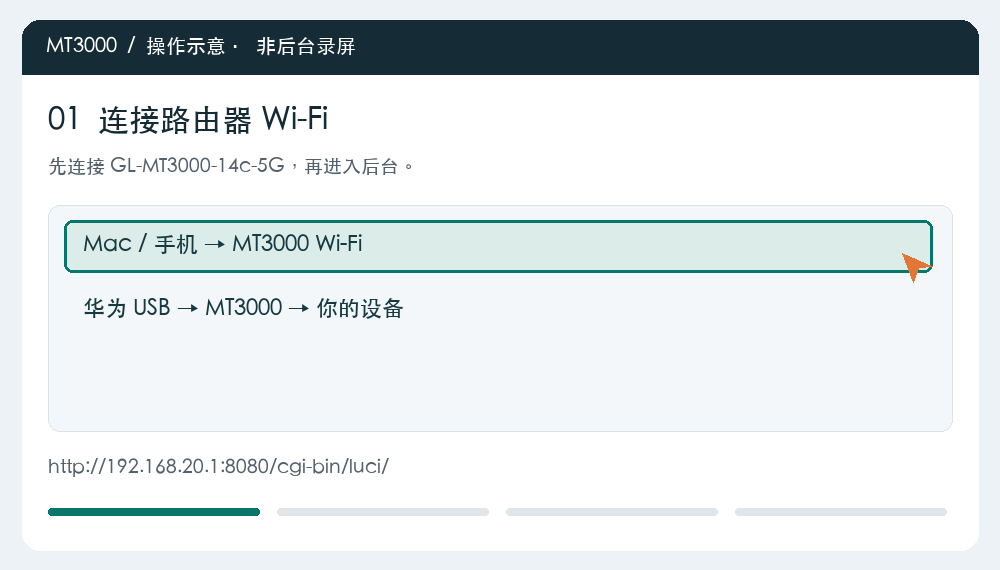
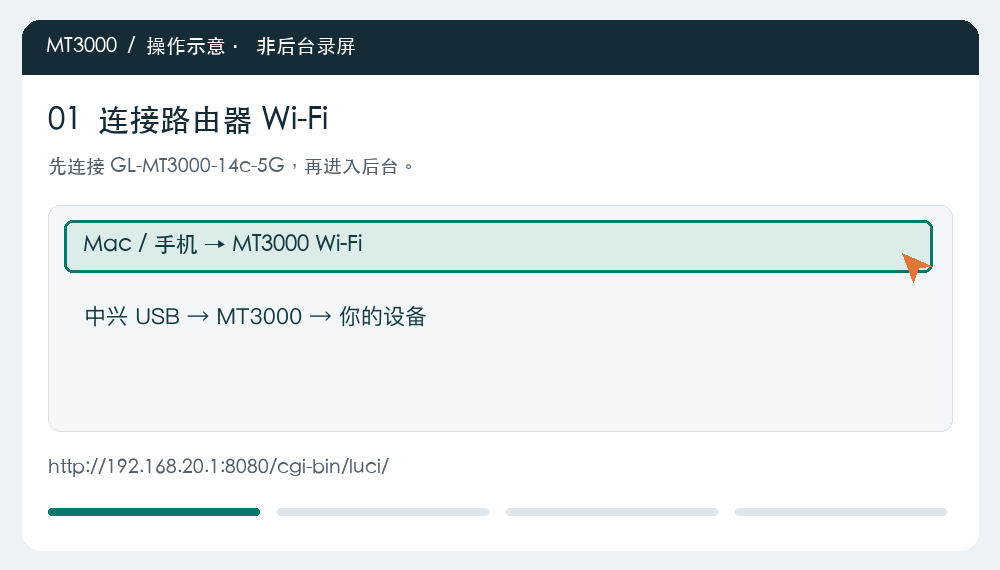
fix

Changed region(s): [[0.062, 0.507, 0.434, 0.5667]]

diff --git a/index.html b/index.html
@@ -1,15 +1,15 @@
 <!doctype html><html lang="zh-CN"><head><meta charset="UTF-8"><meta name="viewport" content="width=device-width,initial-scale=1"><title>MT3000 · 路由器代理使用手册</title><link rel="stylesheet" href="style.css"></head><body>
-<a class="skip" href="#main">跳转到正文</a><aside><a class="brand" href="#top"><span class="brand-icon">M</span><span>MT3000<small>我的路由器使用手册</small></span></a><div class="nav-label">日常操作</div><nav><a href="#entry">01　进入后台与开关代理</a><a href="#nodes">02　更换代理节点</a><a href="#subscription">03　更新或更换订阅</a><a href="#verify">04　确认生效与测速</a><a href="#moving">05　断电、搬家与恢复</a><a href="#faq">06　常见问题</a><a href="#paths">后台路径速查</a></nav><div class="aside-note">适用于当前设备<br>GL-MT3000 · 固件 4.8.1 CN<br>OpenClash 0.47.156<br><span>核对日期：2026-10-03</span></div></aside>
-<main id="main"><header id="top"><div class="eyebrow">PERSONAL FIELD GUIDE / 01</div><h1>让代理留在路由器上。</h1><p class="lead">连接 Wi-Fi，打开后台，选择线路。<br>这份手册帮你独立管理 MT3000 上的 OpenClash。</p><div class="hero-actions"><a class="primary" href="http://192.168.20.1:8080/cgi-bin/luci/admin/services/openclash/client" target="_blank" rel="noreferrer">打开 OpenClash ↗</a><a class="secondary" href="#nodes">我要换节点 →</a></div><div class="topology"><span>华为随身 Wi-Fi<small>192.168.8.1</small></span><b>USB →</b><span>MT3000 / OpenClash<small>192.168.20.1</small></span><b>Wi-Fi →</b><span>Mac / 手机<small>无需各自开启 VPN</small></span></div></header>
+<a class="skip" href="#main">跳转到正文</a><aside><a class="brand" href="#top"><span class="brand-icon">M</span><span>MT3000<small>我的路由器使用手册</small></span></a><div class="nav-label">日常操作</div><nav><a href="#entry">01　进入后台与开关代理</a><a href="#nodes">02　更换代理节点</a><a href="#subscription">03　更新或更换订阅</a><a href="#verify">04　确认生效与测速</a><a href="#moving">05　断电、搬家与恢复</a><a href="#faq">06　常见问题</a><a href="#paths">后台路径速查</a></nav><div class="aside-note">适用于当前设备<br>GL-MT3000 · 固件 4.8.1 CN<br>OpenClash 0.47.156<br><span>网络核对：2026-10-07</span></div></aside>
+<main id="main"><header id="top"><div class="eyebrow">PERSONAL FIELD GUIDE / 01</div><h1>让代理留在路由器上。</h1><p class="lead">连接 Wi-Fi，打开后台，选择线路。<br>这份手册帮你独立管理 MT3000 上的 OpenClash。</p><div class="hero-actions"><a class="primary" href="http://192.168.20.1:8080/cgi-bin/luci/admin/services/openclash/client" target="_blank" rel="noreferrer">打开 OpenClash ↗</a><a class="secondary" href="#nodes">我要换节点 →</a></div><div class="topology"><span>中兴 5G 随身 Wi-Fi<small>192.168.0.1</small></span><b>USB →</b><span>MT3000 / OpenClash<small>192.168.20.1</small></span><b>Wi-Fi →</b><span>Mac / 手机<small>无需各自开启 VPN</small></span></div></header>
 <div class="notice"><strong>先记住这件事</strong><p>这里的“VPN”由 <b>OpenClash</b> 实现。请进入 <b>LuCI → 服务 → OpenClash</b>，不要在 GL.iNet 自带的 WireGuard / OpenVPN 客户端里找这份订阅。本文不包含你的订阅链接、密码或面板密钥。</p></div>
-<section id="entry"><div class="section-no">01 / ACCESS</div><h2>进入后台，开启或关闭代理</h2><p class="intro">先连接 MT3000 的 Wi-Fi。下面的地址是局域网地址，离开这台路由器的网络后通常无法打开。</p><div class="path">LuCI → 服务 → OpenClash → Overviews（概览）</div><ol class="steps"><li><strong>连接 MT3000 Wi-Fi</strong><p>你当前使用的是 <code>GL-MT3000-14c-5G</code>。以后如果改过 Wi-Fi 名称，以新名称为准。</p></li><li><strong>打开 LuCI</strong><p>浏览器输入 <a href="http://192.168.20.1:8080/cgi-bin/luci/" target="_blank">http://192.168.20.1:8080/cgi-bin/luci/</a>。用户名为 <code>root</code>，密码使用你设置的路由器管理员密码；Wi-Fi 密码不一定与它相同。</p></li><li><strong>进入 OpenClash</strong><p>顶部选择「服务 → OpenClash」，打开 <code>Overviews</code>。也可以使用本页上方的快捷按钮直达；登录后若没有跳回，重新打开一次。</p></li><li><strong>操作运行状态右侧开关</strong><p>开启后等待显示 <b>Meta 运行中</b>，并检查下方网站连通性。关闭开关即停止 OpenClash 代理，普通直连上网是否可用取决于华为设备的网络。</p></li><li><strong>日常保持“规则”模式</strong><p>规则模式按配置分流；全局模式通常还需要在面板的 GLOBAL 组选择节点；直连模式不使用代理。仅换节点无需修改增强 / TUN / 混合模式。</p></li></ol>
+<section id="entry"><div class="section-no">01 / ACCESS</div><h2>进入后台，开启或关闭代理</h2><p class="intro">先连接 MT3000 的 Wi-Fi。下面的地址是局域网地址，离开这台路由器的网络后通常无法打开。</p><div class="path">LuCI → 服务 → OpenClash → Overviews（概览）</div><ol class="steps"><li><strong>连接 MT3000 Wi-Fi</strong><p>你当前使用的是 <code>GL-MT3000-14c-5G</code>。以后如果改过 Wi-Fi 名称，以新名称为准。</p></li><li><strong>打开 LuCI</strong><p>浏览器输入 <a href="http://192.168.20.1:8080/cgi-bin/luci/" target="_blank">http://192.168.20.1:8080/cgi-bin/luci/</a>。用户名为 <code>root</code>，密码使用你设置的路由器管理员密码；Wi-Fi 密码不一定与它相同。</p></li><li><strong>进入 OpenClash</strong><p>顶部选择「服务 → OpenClash」，打开 <code>Overviews</code>。也可以使用本页上方的快捷按钮直达；登录后若没有跳回，重新打开一次。</p></li><li><strong>操作运行状态右侧开关</strong><p>开启后等待显示 <b>Meta 运行中</b>，并检查下方网站连通性。关闭开关即停止 OpenClash 代理，普通直连上网是否可用取决于中兴设备的网络。</p></li><li><strong>日常保持“规则”模式</strong><p>规则模式按配置分流；全局模式通常还需要在面板的 GLOBAL 组选择节点；直连模式不使用代理。仅换节点无需修改增强 / TUN / 混合模式。</p></li></ol>
 <div class="demo" data-flow="entry"><div class="demo-head"><span>操作动图 · 后台入口与开关</span><span class="badge">示意动画</span></div><img src="assets/entry-0.png" width="1000" height="570" alt="后台入口与开关的分步操作示意" class="flow-image"><div class="controls"><button class="play">播放动图</button><button class="prev" aria-label="上一步">← 上一步</button><span class="counter" aria-live="polite">1 / 4</span><button class="next" aria-label="下一步">下一步 →</button><a href="assets/entry.gif" download>下载 GIF</a></div><p class="caption">根据当前界面重绘，演示操作顺序；不会控制路由器。真实后台截图见入口与节点章节。</p></div><figure><a href="assets/openclash-real.jpg" target="_blank"><img src="assets/openclash-real.jpg" loading="lazy" alt="真实后台：顶部菜单、运行状态开关和规则模式" width="758" height="988"></a><figcaption>真实后台：顶部菜单、运行状态开关和规则模式 · 点击查看大图</figcaption></figure>
 </section><section id="nodes"><div class="section-no">02 / NODES</div><h2>更换节点：在 Proxy 里选线路</h2><p class="intro">订阅是一整份线路清单，节点是其中一条线路。换节点不用重新导入订阅。</p><div class="path">OpenClash → Overviews → 控制面板 → Metacubexd → 代理 → Proxy</div><ol class="steps"><li><strong>打开 Metacubexd</strong><p>在概览页向下滚动到「控制面板」，点击 <b>Metacubexd</b>。它通常会自动携带连接信息打开新标签页。</p></li><li><strong>点击“代理”，展开 Proxy</strong><p>窄屏窗口中「代理」位于底部导航，宽屏布局可能在侧边。点击 <code>Proxy</code> 组标题展开节点。你当前配置使用这个组；未来换订阅后可能叫“节点选择”等其他名称。</p></li><li><strong>选择具体线路</strong><p>可在「按名称筛选节点」输入“日本”，找到 <code>日本-PRO-FW-JP2-流量倍率:0.2</code>，点击卡片主体。卡片内的延迟数字 / 测试按钮只用于测延迟，不等于选中节点。</p></li><li><strong>检查选中状态</strong><p>确认节点卡片高亮，且 Proxy 的当前选择变成该名称。通常立即生效，不用重启整个路由器。旧连接可能继续使用原路径，重新打开目标网页后再验证。</p></li><li><strong>想恢复自动选节点，就选 Auto</strong><p>在 Proxy 里选 <code>Auto</code>。核对本教程时，Proxy 选择 Auto，Auto 当前选中香港 HK2-1；这是当时状态，会随自动测试而变化。</p></li></ol><div class="tip"><strong>低延迟 ≠ 高下载速度</strong><p>自动组依据配置中的健康检查选择线路，不等于全面测速。“流量倍率 0.2”通常是服务商计费倍率，不代表限速为 20%；具体以服务商说明为准。标注“有效期 / 剩余流量”的条目通常是信息提示，别当作正常线路选择。</p></div>
 <div class="demo" data-flow="nodes"><div class="demo-head"><span>操作动图 · 更换代理节点</span><span class="badge">示意动画</span></div><img src="assets/nodes-0.png" width="1000" height="570" alt="更换代理节点的分步操作示意" class="flow-image"><div class="controls"><button class="play">播放动图</button><button class="prev" aria-label="上一步">← 上一步</button><span class="counter" aria-live="polite">1 / 4</span><button class="next" aria-label="下一步">下一步 →</button><a href="assets/nodes.gif" download>下载 GIF</a></div><p class="caption">根据当前界面重绘，演示操作顺序；不会控制路由器。真实后台截图见入口与节点章节。</p></div><div class="image-grid"><figure><a href="assets/panel-entry-real.jpg" target="_blank"><img src="assets/panel-entry-real.jpg" loading="lazy" alt="真实后台：Metacubexd 的入口" width="758" height="988"></a><figcaption>真实后台：Metacubexd 的入口 · 点击查看大图</figcaption></figure><figure><a href="assets/nodes-real.jpg" target="_blank"><img src="assets/nodes-real.jpg" loading="lazy" alt="真实后台：Proxy 展开后的节点列表" width="758" height="988"></a><figcaption>真实后台：Proxy 展开后的节点列表 · 点击查看大图</figcaption></figure></div>
 </section><section id="subscription"><div class="section-no">03 / SUBSCRIPTIONS</div><h2>更新订阅，或换一家服务商</h2><p class="intro">当前配置名是 <code>myclash.yaml</code>。先分清你要“拉取新节点”，还是“更换订阅地址”。</p><div class="path">OpenClash → Config Subscribe（配置订阅）</div><div class="two-cards"><article><span class="badge">A / 原地址不变</span><h3>只更新节点列表</h3><ol><li>打开 <b>Config Subscribe</b>。</li><li>找到 <b>myclash</b> 那一行。</li><li>点击该行的 <b>更新</b>，等待下载完成。</li><li>回到概览检查配置时间；再到面板检查节点列表。</li></ol><p>无需再次粘贴地址。更新后如果原节点被服务商移除，重新选择可用节点。</p></article><article><span class="badge">B / 替换原地址</span><h3>更换这份订阅</h3><ol><li>在 myclash 那一行点击 <b>编辑</b>。</li><li>用新的 <b>Clash / Mihomo 订阅地址</b> 替换「订阅地址」。</li><li>保留配置文件名，点击 <b>保存配置</b>。</li><li>返回列表，点击该行 <b>更新</b>。</li><li>在概览确认使用 myclash.yaml，检查运行和节点。</li></ol></article></div><div class="tip"><strong>推荐：换服务商时保留一份旧配置</strong><p>点击 <b>新增</b> → 填一个不同文件名（例如 <code>new-provider</code>）→ 粘贴新地址 → 保持“在线订阅转换”关闭 → 保存 → 更新。然后进入 <b>Overviews → 配置文件</b>，选择 <code>new-provider.yaml</code>，点击旁边的 <b>切换</b> 按钮。验证成功后再决定是否保留旧订阅。</p></div>
 <div class="demo" data-flow="sub"><div class="demo-head"><span>操作动图 · 更换订阅</span><span class="badge">示意动画</span></div><img src="assets/sub-0.png" width="1000" height="570" alt="更换订阅的分步操作示意" class="flow-image"><div class="controls"><button class="play">播放动图</button><button class="prev" aria-label="上一步">← 上一步</button><span class="counter" aria-live="polite">1 / 4</span><button class="next" aria-label="下一步">下一步 →</button><a href="assets/sub.gif" download>下载 GIF</a></div><p class="caption">根据当前界面重绘，演示操作顺序；不会控制路由器。真实后台截图见入口与节点章节。</p></div>
 <h3>关于几个容易混淆的按钮</h3><div class="table-wrap"><table><thead><tr><th>按钮 / 入口</th><th>作用</th></tr></thead><tbody><tr><td>保存配置</td><td>保存订阅名称和地址；之后还要更新，才能下载新配置。</td></tr><tr><td>订阅行的“更新”</td><td>从该地址重新获取配置文件。</td></tr><tr><td>概览的配置文件“切换”</td><td>选定当前真正运行的 YAML；新增订阅后尤其要做这一步。</td></tr><tr><td>Config Manage</td><td>管理 / 上传本地 YAML 文件。只有配置文件时使用；不要把网页地址当作配置文件上传。</td></tr><tr><td>在线订阅转换</td><td>可能把订阅交给第三方转换服务。本教程使用兼容订阅直接导入，不需要开启。</td></tr></tbody></table></div><p>若要定期更新，可在 Config Subscribe 勾选「自动更新」，选择页面展开后的更新时间并保存配置。先确认手动更新能成功，再开启定时更新。</p><p class="muted">订阅失败时：检查地址是否完整、套餐是否有效、路由器时间是否正确，以及 Server Logs 中的下载或解析错误。报错日志和截图可能包含订阅密钥，分享前先遮挡。</p>
-</section><section id="verify"><div class="section-no">04 / VERIFY</div><h2>确认流量真的经过路由器</h2><ol class="steps"><li><strong>完全退出 Mac 的 Clash Verge</strong><p>单独关闭系统代理不一定关闭 TUN；测试时完全退出最容易避免混淆。手机也先关闭自己的 VPN，并确认连接 MT3000 Wi-Fi。</p></li><li><strong>查看路由器与客户端两边</strong><p>OpenClash 显示 Meta 运行中；下方「访问检查」选择路由器模式并刷新。再在 Mac 新开网页访问 YouTube，实际播放视频。路由器检查成功不能代替客户端验证。</p></li><li><strong>用相同条件测速</strong><p>尽量固定同一节点、同一测速服务器、同一 Wi-Fi 位置，关闭后台下载，测 2–3 次。蜂窝网络和服务商线路可能短时波动，别只凭一次结果改配置。</p></li></ol><div class="note-strip"><b>我们已观察到</b><p>关闭 Mac VPN 后曾测得 37.5 Mbps 下载、29.8 Mbps 上传；此前也出现过 0.93 Mbps。它们是当时的测试记录，不是性能保证，也不足以证明某个单一故障原因。</p></div></section>
-<section id="moving"><div class="section-no">05 / EVERYDAY</div><h2>断电带到公司，通常无需重配</h2><p>配置保存在路由器中。保持华为设备通过 USB 给 MT3000 提供网络，开机等待华为联网，再连接 MT3000 Wi-Fi 即可。确认 OpenClash 自动恢复运行；若未恢复，再进概览查看开关和日志。</p><ul><li><b>入口保持不变：</b>LAN 仍是 192.168.20.1，后台地址不因地点改变。</li><li><b>上游改变时检查网段：</b>若改接公司有线 / Wi-Fi，且上游也是 192.168.20.x，可能再次出现网段冲突，需要调整 LAN。</li><li><b>升级或恢复出厂前：</b>先备份设置和配置。备份可能包含订阅密钥，应妥善保存。</li></ul></section>
-<section id="faq"><div class="section-no">06 / TROUBLESHOOT</div><h2>遇到问题，从这里查</h2><details><summary>192.168.20.1 或 LuCI 打不开</summary><p>确认连接的是 MT3000 Wi-Fi。LuCI 地址需要带 <b>:8080</b>，使用 <b>http://</b>。如果普通后台能开而 LuCI 不能开，在 GL.iNet「系统 → 高级设置」检查 LuCI 入口。LAN 地址改过后，本文快捷链接也要相应修改。</p></details><details><summary>Metacubexd 无法连接，提示需要密钥</summary><p>先确认 Meta 运行中，再从 OpenClash 的 Metacubexd 按钮重新进入，它会携带连接信息。直接访问 9090 面板可能需要手动填写主机 192.168.20.1、端口 9090，以及 OpenClash「复制密钥」得到的值。不要把这个密钥或含 secret 的链接公开分享。</p></details><details><summary>换节点后好像没变化</summary><p>确认是在规则模式下使用的 Proxy 组选择了节点，而不是只改 GLOBAL 或只点击延迟测试。查看「连接」页里新请求经过的规则和代理链；关闭旧页面，再新开页面测试。某些应用有专用策略组，需要在对应组中选择。</p></details><details><summary>突然变慢，要不要切 TUN 或重置防火墙？</summary><p>先不改底层设置。固定节点和测速服务器复测，检查华为信号和剩余流量，查看 OpenClash 负载与连接。低延迟不代表高带宽。“重置防火墙”和模式变更不应作为日常换节点的步骤。</p></details><details><summary>更新订阅后无法启动</summary><p>打开 Server Logs，检查下载失败、YAML 解析错误或节点不兼容。若保留了旧配置，在 Overviews 选择旧 YAML 并切换。不要急着恢复出厂。</p></details><details><summary>部分网站失败，或者出现 IPv6 提示</summary><p>当前安装时曾提示 IPv6 DHCP 可能影响连接。出现问题时先确认该网站的规则、DNS 和 IPv4 / IPv6 路径，再针对性调整。不要仅凭提示就同时修改 IPv6、DNS 和防火墙，否则难以判断原因。</p></details></section>
-<section id="paths"><div class="section-no">REFERENCE</div><h2>后台路径速查</h2><p>这些链接仅访问你的局域网设备，不包含登录凭据。先连接 MT3000。</p><div id="links"></div><div class="table-wrap"><table><thead><tr><th>英文菜单</th><th>中文含义</th><th>什么时候使用</th></tr></thead><tbody><tr><td>Overviews</td><td>概览</td><td>开关代理、切换配置、打开面板</td></tr><tr><td>Plugin Settings</td><td>插件设置</td><td>模式、DNS、外部控制、版本更新</td></tr><tr><td>Overwrite Settings</td><td>覆写设置</td><td>高级配置，日常换节点无需修改</td></tr><tr><td>Config Subscribe</td><td>配置订阅</td><td>新增、编辑、更新订阅地址</td></tr><tr><td>Config Manage</td><td>配置管理</td><td>上传和管理 YAML 文件</td></tr><tr><td>Server Logs</td><td>运行日志</td><td>检查启动、下载、连接错误</td></tr></tbody></table></div></section><footer>为你的 MT3000 制作 · 可离线阅读 · 动图为操作示意，截图为真实界面<br>界面核对：2026-10-03。后续升级或换订阅后，菜单、策略组与节点名称可能变化。<button onclick="window.print()">打印 / 保存为 PDF</button></footer></main><script src="app.js"></script></body></html>
+</section><section id="verify"><div class="section-no">04 / VERIFY</div><h2>确认流量真的经过路由器</h2><ol class="steps"><li><strong>完全退出 Mac 的 Clash Verge</strong><p>单独关闭系统代理不一定关闭 TUN；测试时完全退出最容易避免混淆。手机也先关闭自己的 VPN，并确认连接 MT3000 Wi-Fi。</p></li><li><strong>查看路由器与客户端两边</strong><p>OpenClash 显示 Meta 运行中；下方「访问检查」选择路由器模式并刷新。再在 Mac 新开网页访问 YouTube，实际播放视频。路由器检查成功不能代替客户端验证。</p></li><li><strong>用相同条件测速</strong><p>尽量固定同一节点、同一测速服务器、同一 Wi-Fi 位置，关闭后台下载，测 2–3 次。蜂窝网络和服务商线路可能短时波动，别只凭一次结果改配置。</p></li></ol><div class="note-strip"><b>旧上游历史记录</b><p>更换中兴设备前，关闭 Mac VPN 后曾测得 37.5 Mbps 下载、29.8 Mbps 上传；也出现过 0.93 Mbps。这些数值不代表当前中兴设备的性能，也不足以证明某个单一故障原因。</p></div></section>
+<section id="moving"><div class="section-no">05 / EVERYDAY</div><h2>断电带到公司，通常无需重配</h2><p>配置保存在路由器中。保持中兴设备通过 USB 给 MT3000 提供网络，开机等待中兴设备联网，再连接 MT3000 Wi-Fi 即可。确认 OpenClash 自动恢复运行；若未恢复，再进概览查看开关和日志。</p><ul><li><b>入口保持不变：</b>LAN 仍是 192.168.20.1，后台地址不因地点改变。</li><li><b>上游改变时检查网段：</b>若改接公司有线 / Wi-Fi，且上游也是 192.168.20.x，可能再次出现网段冲突，需要调整 LAN。</li><li><b>升级或恢复出厂前：</b>先备份设置和配置。备份可能包含订阅密钥，应妥善保存。</li></ul></section>
+<section id="faq"><div class="section-no">06 / TROUBLESHOOT</div><h2>遇到问题，从这里查</h2><details><summary>192.168.20.1 或 LuCI 打不开</summary><p>确认连接的是 MT3000 Wi-Fi。LuCI 地址需要带 <b>:8080</b>，使用 <b>http://</b>。如果普通后台能开而 LuCI 不能开，在 GL.iNet「系统 → 高级设置」检查 LuCI 入口。LAN 地址改过后，本文快捷链接也要相应修改。</p></details><details><summary>Metacubexd 无法连接，提示需要密钥</summary><p>先确认 Meta 运行中，再从 OpenClash 的 Metacubexd 按钮重新进入，它会携带连接信息。直接访问 9090 面板可能需要手动填写主机 192.168.20.1、端口 9090，以及 OpenClash「复制密钥」得到的值。不要把这个密钥或含 secret 的链接公开分享。</p></details><details><summary>换节点后好像没变化</summary><p>确认是在规则模式下使用的 Proxy 组选择了节点，而不是只改 GLOBAL 或只点击延迟测试。查看「连接」页里新请求经过的规则和代理链；关闭旧页面，再新开页面测试。某些应用有专用策略组，需要在对应组中选择。</p></details><details><summary>突然变慢，要不要切 TUN 或重置防火墙？</summary><p>先不改底层设置。固定节点和测速服务器复测，检查中兴设备信号和剩余流量，查看 OpenClash 负载与连接。低延迟不代表高带宽。“重置防火墙”和模式变更不应作为日常换节点的步骤。</p></details><details><summary>更新订阅后无法启动</summary><p>打开 Server Logs，检查下载失败、YAML 解析错误或节点不兼容。若保留了旧配置，在 Overviews 选择旧 YAML 并切换。不要急着恢复出厂。</p></details><details><summary>部分网站失败，或者出现 IPv6 提示</summary><p>当前安装时曾提示 IPv6 DHCP 可能影响连接。出现问题时先确认该网站的规则、DNS 和 IPv4 / IPv6 路径，再针对性调整。不要仅凭提示就同时修改 IPv6、DNS 和防火墙，否则难以判断原因。</p></details></section>
+<section id="paths"><div class="section-no">REFERENCE</div><h2>后台路径速查</h2><p>这些链接仅访问你的局域网设备，不包含登录凭据。先连接 MT3000。</p><div id="links"></div><div class="table-wrap"><table><thead><tr><th>英文菜单</th><th>中文含义</th><th>什么时候使用</th></tr></thead><tbody><tr><td>Overviews</td><td>概览</td><td>开关代理、切换配置、打开面板</td></tr><tr><td>Plugin Settings</td><td>插件设置</td><td>模式、DNS、外部控制、版本更新</td></tr><tr><td>Overwrite Settings</td><td>覆写设置</td><td>高级配置，日常换节点无需修改</td></tr><tr><td>Config Subscribe</td><td>配置订阅</td><td>新增、编辑、更新订阅地址</td></tr><tr><td>Config Manage</td><td>配置管理</td><td>上传和管理 YAML 文件</td></tr><tr><td>Server Logs</td><td>运行日志</td><td>检查启动、下载、连接错误</td></tr></tbody></table></div></section><footer>为你的 MT3000 制作 · 可离线阅读 · 动图为操作示意，截图为真实界面<br>上游网络核对：2026-10-07；OpenClash 界面核对：2026-10-03。后续升级或换订阅后，菜单、策略组与节点名称可能变化。<button onclick="window.print()">打印 / 保存为 PDF</button></footer></main><script src="app.js"></script></body></html>

diff --git a/README.md b/README.md
@@ -1,14 +1,14 @@
 # MT3000 网络与维护上下文
 
-> 给后续协助维护的 AI / 开发者阅读。最后整理：2026-10-03（Asia/Shanghai）。
+> 给后续协助维护的 AI / 开发者阅读。最后整理：2026-10-07（Asia/Shanghai）。
 > 本文是历史状态快照，不是实时监控结果。任何调整前先读取当前后台，不要把这里的节点、IP 租约、版本或运行状态当作永久事实。
 > 不保存管理员密码、订阅完整 URL、节点密码、控制面板密钥。用户此前已提供订阅并授权导入，已保存在路由器中，无须重复索取或输出。
 
 ## 1. 用户目标与协作方式
 
-- 使用华为随身 Wi-Fi 提供蜂窝互联网，通过 USB 接入 GL.iNet MT3000。
+- 使用中兴 5G 随身 Wi-Fi 提供蜂窝互联网，通过 USB 接入 GL.iNet MT3000。
 - 由 MT3000 上的 OpenClash 统一处理代理，Mac / 手机连接 MT3000 Wi-Fi 即可，不需各自开启 VPN。
-- 用户先在家配置，之后计划断电带到公司，仍使用华为设备作为上游。
+- 用户先在家配置，之后计划断电带到公司。2026-10-07 已将 USB 上游换为中兴 5G 随身 Wi-Fi。
 - 用户已授权在浏览器中协助安装、配置、验证路由器；后续变更以当次请求为准。制作文档不等于授权变更实际线路。
 - 用户偏好直接操作、少重复确认、及时说明进度。不要长时间没有反馈。
 - 本次制作教程只读取面板、展开节点列表，没有更换正在使用的节点、修改订阅或停止代理。
@@ -18,13 +18,12 @@
 ```text
 蜂窝移动网络
     │
-华为随身 Wi-Fi（具体型号未记录）
-    │ 网关 / DNS：192.168.8.1
-    │ USB RNDIS
+中兴 5G 随身 Wi-Fi（具体型号未记录）
+    │ 网关 / DNS：192.168.0.1
+    │ USB 网络共享（GL 后台归类为「热点共享」）
     ▼
 GL.iNet MT3000
-    ├─ USB 上游接口：eth2
-    ├─ 上游地址：192.168.8.2/24（当时获取到的地址）
+    ├─ 上游地址：192.168.0.180（2026-10-07 后台实读；租约可能变化）
     ├─ LAN 网关：192.168.20.1/24
     ├─ DHCP 地址池：192.168.20.100–192.168.20.249
     ├─ LAN 桥：br-lan
@@ -35,7 +34,9 @@ GL.iNet MT3000
             └─ 手机及其他客户端
 ```
 
-此前华为上游与 MT3000 LAN 同在 192.168.8.0/24，造成网段冲突；已将 MT3000 LAN 改为 192.168.20.0/24。不要改回冲突网段。
+MT3000 LAN 使用 `192.168.20.0/24`，当前中兴上游使用 `192.168.0.0/24`，两者不冲突。不要把 LAN 改到与上游相同的网段。
+
+2026-10-07 在 MT3000 后台「网络 → 互联网」实读：当前「热点共享」已连接，IPv4 地址为 `192.168.0.180`，网关和 DNS 均为 `192.168.0.1`；「蜂窝网络」栏显示未检测到 Modem。直接访问上游网关时页面加载了 `ztedevices.com` 资源，据此确认当前 USB 上游是中兴设备。这里的「热点共享」是 GL.iNet 对 USB 网络共享连接的分类，不表示连接异常。本次只读核对，没有修改网络设置。
 
 搬到公司后，如果接线、上游和 LAN 不变，通常不用重配。若改用公司网络作上游，先检查是否与 192.168.20.0/24 冲突。
 
@@ -161,7 +162,7 @@ GL.iNet MT3000
 
 结论边界：路由器路径至少曾恢复到正常的数十 Mbps；不能认定 MT3000 只能跑 0.93 Mbps，也不能证明是开关 Mac VPN 修复了故障。蜂窝波动、代理线路、测速服务器负载、连接与 DNS 重建都是候选原因，尚无定论。
 
-若用户再次报告慢：固定节点、测速服务器、Wi-Fi 位置；核实 Mac TUN 和系统代理均退出；对照新连接实际代理链、路由器 CPU / 内存和华为信号。不要把 Auto 测得的低延迟当作高下载速度证明。
+若用户再次报告慢：固定节点、测速服务器、Wi-Fi 位置；核实 Mac TUN 和系统代理均退出；对照新连接实际代理链、路由器 CPU / 内存和中兴设备信号。不要把 Auto 测得的低延迟当作高下载速度证明。
 
 ### 尚未解决或需观察
 
